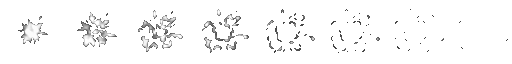
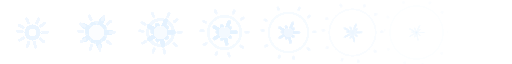
Stage 1: original hit and spell effects; the game can be sold
All 20 effects (slashes, claws, thrusts, impacts, crits, fire, ice, lightning,
poison, holy, shadow, nature, arcane, shatter, heal, level-up, blood) are now
drawn for Solaria by tools/make_fx.gd (CC0), in the same strip format. They
replace a pack whose free license allowed non-commercial games only.

diff --git a/claude/stage2-progress.md b/claude/stage2-progress.md
@@ -68,3 +68,4 @@ Helpers (395071c): `CLAUDE.md` in the repo (rules, auto-read each session), `COD
 * Oct 19, 6:44 AM: Faster play: Speed cycles 1x/2x/3x (GameState.speed, saved; fast_mode kept in step for old saves). "Made it home!" card has Stay in town / Dive again (main.dive_again: last checkpoint, same carry choice). Tests in stage2_lifecycle.
 * Oct 19, 6:48 AM: Blacksmith set pieces stack one per row on phones (CraftTab.piece_rows, orientation set in refresh) so names fit. Toasts sit just above the bottom bar on phones instead of over the town tabs.
 * Oct 19, 6:53 AM: Accessibility: Reduce motion (no idle bob in fights, no room motes, no shake or hit stop) and High-contrast text (UI.label draws DIM as DIM_CONTRAST #c3cbdc; rich text that embeds UI.hex(UI.DIM) is not changed yet). Profile fields reduce_motion, high_contrast; tests in stage2_lifecycle.
+* Oct 19, 7:00 AM: Licensing: all 20 hit/spell effects redrawn for Solaria by tools/make_fx.gd (CC0, same 64x64 strips and frame counts), replacing BDragon1727's non-commercial pack (old files kept in C:\gamedev\solaria_sources\old_fx, outside the game). Credits updated (credits.gd, art/fx/CREDITS.md). Known: poison, nature, shatter and blood are smaller than the rest; worth a second pass.

diff --git a/art/fx/CREDITS.md b/art/fx/CREDITS.md
@@ -1,6 +1,5 @@
 # Effects
 
-Hit and spell effects: "750 Effect and FX Pixel All" (free version) by BDragon1727.
-https://bdragon1727.itch.io/750-effect-and-fx-pixel-all
+Hit and spell effects (slash, claw, pierce, impact, crit, burst, fire, ice, lightning, poison, holy, shadow, nature, arcane, shatter, heal, level up, blood) were drawn for Solaria by tools/make_fx.gd. CC0.
 
-Free license: non-commercial games only. For a commercial release, contribute any amount to the artist first.
+They replace the free version of "750 Effect and FX Pixel All" by BDragon1727, whose license allows non-commercial games only. The old files are kept outside the game in C:\gamedev\solaria_sources\old_fx.
